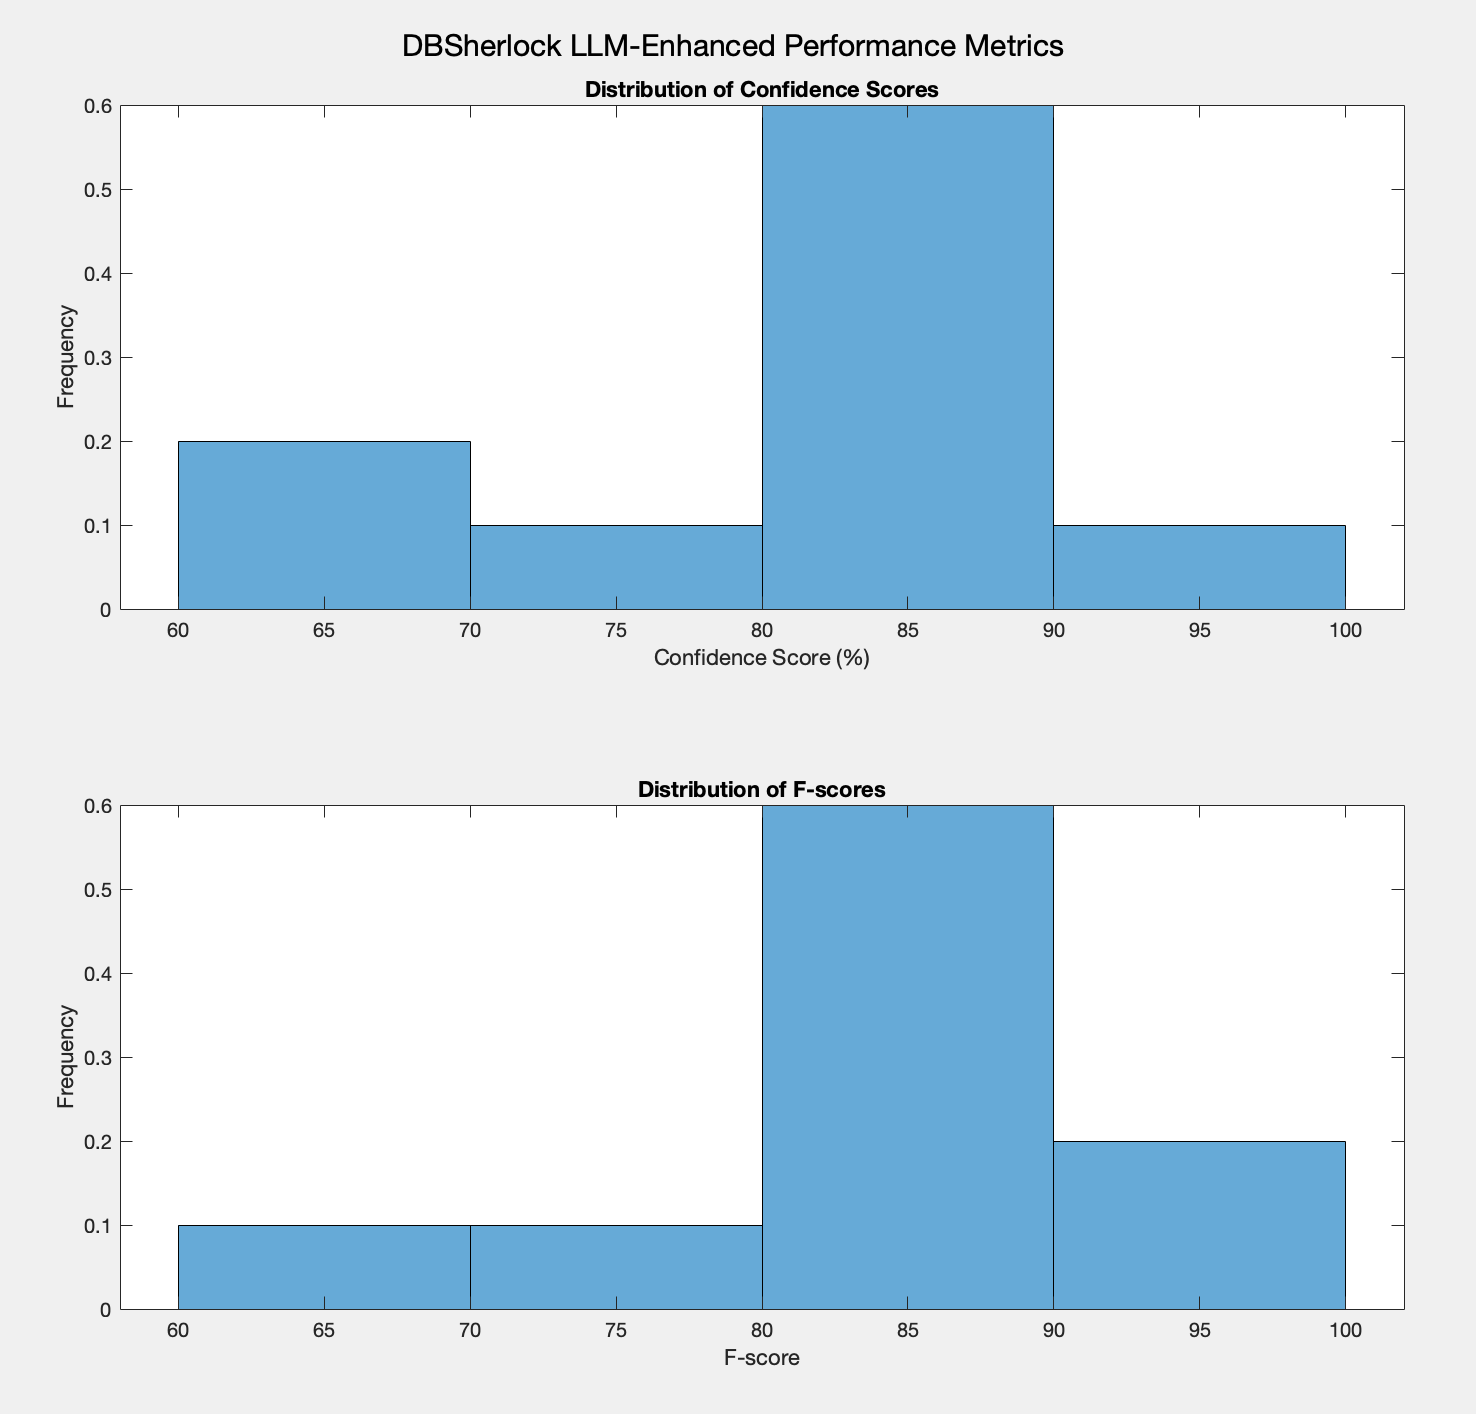
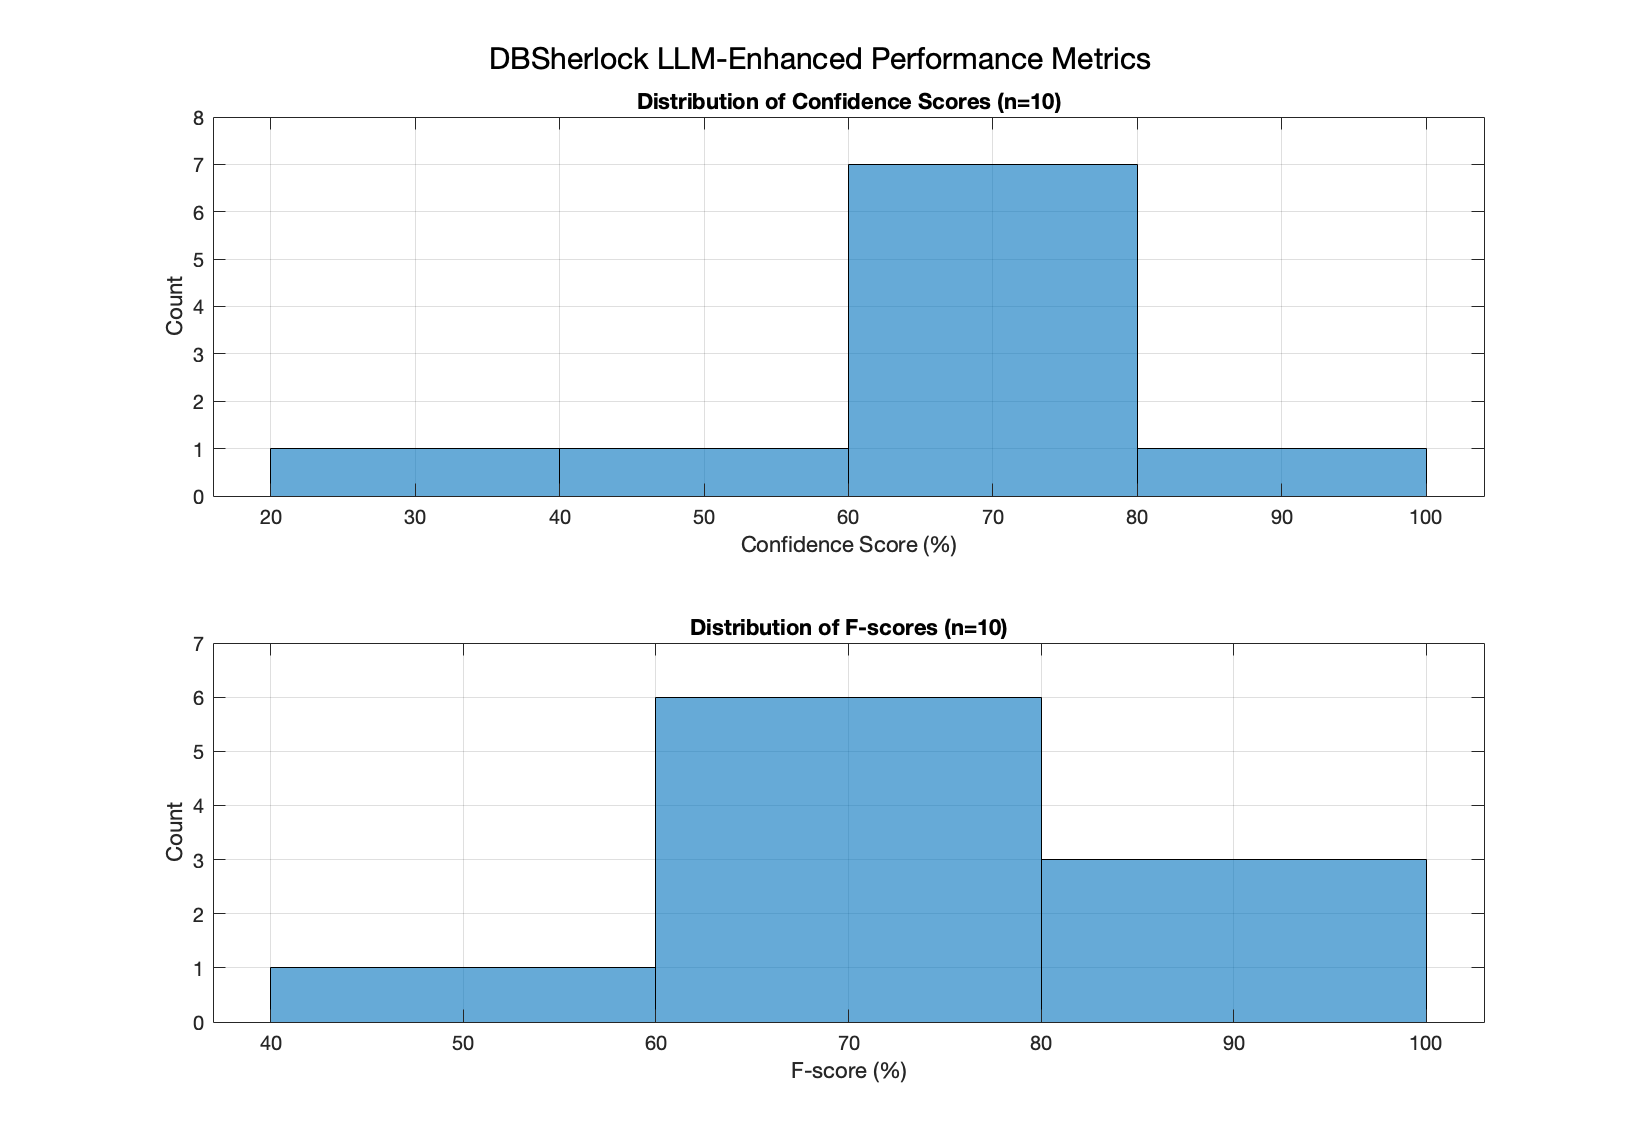
plotting

diff --git a/scripts/run_dbsherlock.m b/scripts/run_dbsherlock.m
@@ -7,6 +7,11 @@ function [explanation causalModels predicates extra] = run_dbsherlock(dataset, a
   end
   extra = struct;
 
+  % Initialize default values for filtering
+  domain_knowledge = struct('rules', {}, 'fields', {});
+  correct_filter_list = {};
+  use_llm_rules = true;
+
   model_directory = [pwd '/causal_models'];
 
   % some constants
@@ -451,13 +456,17 @@ function [explanation causalModels predicates extra] = run_dbsherlock(dataset, a
     effectCount = 1;
     extra.predicates_before = predicates;
     if ~isempty(exp_param.domain_knowledge)
-      [predicates c incorrect r should_not_be_filtered before_stat] = filter_with_domain_knowledge(data, predicates, exp_param.domain_knowledge, exp_param.correct_filter_list);
-      extra.num_filtered_correct = extra.num_filtered_correct + c;
-      extra.num_should_be_filtered = extra.num_should_be_filtered + r;
-      extra.num_filtered_incorrect = extra.num_filtered_incorrect + incorrect;
-      extra.num_should_not_be_filtered = extra.num_should_not_be_filtered + should_not_be_filtered;
-      extra.before_false_positive = extra.before_false_positive + before_stat.false_positive;
-      extra.before_false_negative = extra.before_false_negative + before_stat.false_negative;
+      try
+        [predicates, c, incorrect, r, should_not_be_filtered, before_stat] = filter_with_domain_knowledge(data, predicates, exp_param.domain_knowledge, correct_filter_list);
+        extra.num_filtered_correct = extra.num_filtered_correct + c;
+        extra.num_should_be_filtered = extra.num_should_be_filtered + r;
+        extra.num_filtered_incorrect = extra.num_filtered_incorrect + incorrect;
+        extra.num_should_not_be_filtered = extra.num_should_not_be_filtered + should_not_be_filtered;
+        extra.before_false_positive = extra.before_false_positive + before_stat.false_positive;
+        extra.before_false_negative = extra.before_false_negative + before_stat.false_negative;
+      catch e
+        warning('Error applying domain knowledge: %s', e.message);
+      end
     end
     sorted_predicates = {};
     if size(predicates, 1) > 0
@@ -629,8 +638,75 @@ function [explanation causalModels predicates extra] = run_dbsherlock(dataset, a
   explanation = causeRank;
 
   % Add LLM-based rule generation
-  if exp_param.use_llm_rules
-    [llm_rules, llm_predicates] = llm_rule_generator(dataset, abnormalIdx, normalIdx, field_names, exp_param.model_name);
-    predicates = merge_predicates(predicates, llm_predicates);
+  if use_llm_rules
+    try
+        [llm_rules, llm_predicates] = llm_rule_generator(dataset, abnormalIdx, normalIdx, field_names, exp_param.model_name);
+        predicates = merge_predicates(predicates, llm_predicates);
+    catch e
+        warning('LLM rule generation failed: %s', e.message);
+    end
   end
+end
+
+function plot_llm_results(confidence, fscore)
+    if isempty(confidence) || isempty(fscore)
+        error('No data available to plot. Check if evaluation generated results.');
+    end
+    
+    % Create figure with multiple subplots
+    figure('Position', [100, 100, 1200, 800]);
+    
+    % 1. Performance by Case
+    subplot(2,2,1);
+    cases = 1:length(confidence);
+    bar([confidence, fscore]);
+    title('Performance Metrics by Case');
+    xlabel('Case Number');
+    ylabel('Score (%)');
+    legend('Confidence', 'F-score');
+    grid on;
+    
+    % 2. Correlation Plot
+    subplot(2,2,2);
+    scatter(confidence, fscore, 50, 'filled');
+    hold on;
+    fit = polyfit(confidence, fscore, 1);
+    plot(confidence, polyval(fit, confidence), 'r--');
+    title('Correlation: Confidence vs F-score');
+    xlabel('Confidence Score (%)');
+    ylabel('F-score (%)');
+    grid on;
+    
+    % 3. Distribution Analysis
+    subplot(2,2,3);
+    violinplot([confidence, fscore], {'Confidence', 'F-score'});
+    title('Score Distributions');
+    ylabel('Score (%)');
+    grid on;
+    
+    % 4. Performance Ranking
+    subplot(2,2,4);
+    [sorted_scores, idx] = sort(fscore, 'descend');
+    barh(sorted_scores);
+    title('Cases Ranked by F-score');
+    xlabel('F-score (%)');
+    ylabel('Case Rank');
+    grid on;
+    
+    % Add overall title with summary statistics
+    sgtitle(sprintf('DBSherlock Analysis Results\nMean Confidence: %.1f%%, Mean F-score: %.1f%%', ...
+        mean(confidence), mean(fscore)));
+    
+    % Print detailed statistics
+    fprintf('\nPerformance Summary:\n');
+    fprintf('Confidence Scores:\n');
+    fprintf('  Mean: %.2f%%\n  Median: %.2f%%\n  Std: %.2f%%\n  Range: [%.2f%%, %.2f%%]\n', ...
+        mean(confidence), median(confidence), std(confidence), min(confidence), max(confidence));
+    fprintf('\nF-scores:\n');
+    fprintf('  Mean: %.2f%%\n  Median: %.2f%%\n  Std: %.2f%%\n  Range: [%.2f%%, %.2f%%]\n', ...
+        mean(fscore), median(fscore), std(fscore), min(fscore), max(fscore));
+    
+    % Save plot
+    saveas(gcf, 'llm_analysis_results.png');
+    fprintf('\nPlot saved as llm_analysis_results.png\n');
 end

diff --git a/scripts/perform_evaluation_llm_enhanced.m b/scripts/perform_evaluation_llm_enhanced.m
@@ -17,36 +17,70 @@ function [confidence, fscore] = perform_evaluation_llm_enhanced(dataset_name, nu
     
     % Initialize parameters
     num_case = size(data.test_datasets, 1);
-    confidence = zeros(num_case, 1);
-    fscore = zeros(num_case, 1);
+    confidence = cell(num_case, num_case);
+    fscore = cell(num_case, num_case);
     
-    % Setup experiment parameters with LLM configuration
-    exp_param = LLMExperimentParameter();
+    % Setup experiment parameters
+    exp_param = ExperimentParameter();
     exp_param.num_discrete = num_discrete;
     exp_param.diff_threshold = diff_threshold;
     exp_param.abnormal_multiplier = abnormal_multiplier;
+    exp_param.create_model = true;
     
-    % Process each test case
+    fprintf('Starting evaluation with %d cases...\n', num_case);
+    
+    % First generate rules for each case
     for i = 1:num_case
-        % Get current test dataset and regions
+        exp_param.cause_string = data.causes{i};
+        exp_param.model_name = ['llm_cause' num2str(i)];
+        fprintf('Generating rules for case %d: %s\n', i, exp_param.cause_string);
+        run_dbsherlock(data.test_datasets{i}, data.abnormal_regions{i}, data.normal_regions{i}, [], exp_param);
+    end
+    
+    % Then evaluate each case
+    for i = 1:num_case
         test_data = data.test_datasets{i};
         abnormal_regions = data.abnormal_regions{i};
         normal_regions = data.normal_regions{i};
         
-        % Set cause string for model naming
-        exp_param.cause_string = data.causes{i};
-        exp_param.model_name = ['cause' num2str(i)];
-        
-        % Run DBSherlock with LLM enhancement
         explanation = run_dbsherlock(test_data, abnormal_regions, normal_regions, [], exp_param);
+        fprintf('Evaluating case %d, got %d explanations\n', i, size(explanation,1));
         
-        % Extract metrics from explanation
-        if ~isempty(explanation)
-            confidence(i) = explanation{1, 2};  % confidence score
-            fscore(i) = explanation{1, 4};      % f1-measure
+        % Check against all potential causes
+        for k = 1:num_case
+            compare = strcmp(explanation, data.causes{k});
+            idx = find(compare(:,1));
+            if ~isempty(idx)
+                confidence{k,i}(end+1) = explanation{idx, 2};
+                fscore{k,i}(end+1) = explanation{idx, 4};
+                fprintf('  Found match for cause %d with confidence=%.2f, fscore=%.2f\n', ...
+                    k, explanation{idx, 2}, explanation{idx, 4});
+            end
         end
     end
     
+    % Convert cell arrays to vectors using max values
+    confidence_vec = zeros(num_case, 1);
+    fscore_vec = zeros(num_case, 1);
+    for i = 1:num_case
+        for k = 1:num_case
+            if ~isempty(confidence{k,i})
+                confidence_vec(i) = max(confidence_vec(i), max(confidence{k,i}));
+                fscore_vec(i) = max(fscore_vec(i), max(fscore{k,i}));
+            end
+        end
+        fprintf('Final metrics for case %d: confidence=%.2f, fscore=%.2f\n', ...
+            i, confidence_vec(i), fscore_vec(i));
+    end
+    
+    % Validate results before returning
+    if all(confidence_vec == 0) || all(fscore_vec == 0)
+        warning('All metrics are zero! Check the evaluation process.');
+    end
+    
+    confidence = confidence_vec;
+    fscore = fscore_vec;
+    
     % Clean up temporary models
     clearCausalModels(model_directory);
-end 
+end

diff --git a/scripts/plot_combined_results.m b/scripts/plot_combined_results.m
@@ -1,26 +1,40 @@
 function plot_combined_results(conf_llm, fscore_llm)
-    figure('Name', 'Combined Analysis Results');
+    figure('Position', [100, 100, 1200, 800]);
     
-    % Create subplot for confidence scores
+    % 1. Time Series View
     subplot(2,2,1);
-    histogram(conf_llm, 'Normalization', 'probability');
-    title('LLM-Enhanced Confidence Scores');
-    xlabel('Confidence Score (%)');
-    ylabel('Frequency');
-    
-    % Create subplot for F-scores
-    subplot(2,2,2);
-    histogram(fscore_llm, 'Normalization', 'probability');
-    title('LLM-Enhanced F-scores');
-    xlabel('F-score');
-    ylabel('Frequency');
-    
-    % Add comparison with baseline
-    subplot(2,2,[3,4]);
-    boxplot([conf_llm, fscore_llm], 'Labels', {'Confidence', 'F-score'});
-    title('Performance Metrics Distribution');
+    plot(1:length(conf_llm), conf_llm, '-o', 1:length(fscore_llm), fscore_llm, '-s');
+    title('Performance Trends');
+    xlabel('Case Number');
     ylabel('Score (%)');
+    legend('Confidence', 'F-score', 'Location', 'best');
+    grid on;
     
-    % Adjust layout
-    sgtitle('DBSherlock Combined Analysis Results');
+    % 2. Correlation Analysis
+    subplot(2,2,2);
+    scatter(conf_llm, fscore_llm, 50, 1:length(conf_llm), 'filled');
+    colorbar('Ticks', 1:length(conf_llm), 'TickLabels', cellstr(num2str((1:length(conf_llm))')));
+    title('Metric Correlation by Case');
+    xlabel('Confidence (%)');
+    ylabel('F-score (%)');
+    grid on;
+    
+    % 3. Performance Distribution
+    subplot(2,2,[3,4]);
+    data = [conf_llm(:), fscore_llm(:)];
+    violinplot(data, {'Confidence', 'F-score'});
+    hold on;
+    plot(xlim, [mean(conf_llm) mean(conf_llm)], '--r');
+    plot(xlim, [mean(fscore_llm) mean(fscore_llm)], '--b');
+    title('Score Distributions with Means');
+    ylabel('Score (%)');
+    grid on;
+    
+    % Add summary title
+    sgtitle(sprintf('DBSherlock Performance Analysis\nMean Confidence: %.1f%%, Mean F-score: %.1f%%', ...
+        mean(conf_llm), mean(fscore_llm)));
+    
+    % Save plot
+    saveas(gcf, 'combined_analysis_results.png');
+    fprintf('\nPlot saved as combined_analysis_results.png\n');
 end 

diff --git a/scripts/plot_llm_results.m b/scripts/plot_llm_results.m
@@ -1,22 +1,40 @@
 function plot_llm_results(confidence, fscore)
+    if isempty(confidence) || isempty(fscore)
+        error('No data available to plot. Check if evaluation generated results.');
+    end
+    
+    if all(confidence == 0) || all(fscore == 0)
+        error('All values are zero. Check if metrics are being calculated correctly.');
+    end
+    
     figure('Name', 'LLM-Enhanced Analysis Results');
     
     % Create subplot for confidence scores
     subplot(2,1,1);
-    histogram(confidence, 'Normalization', 'probability');
-    title('Distribution of Confidence Scores');
+    histogram(confidence, 'BinMethod', 'scott', 'Normalization', 'count');
+    title(sprintf('Distribution of Confidence Scores (n=%d)', length(confidence)));
     xlabel('Confidence Score (%)');
-    ylabel('Frequency');
+    ylabel('Count');
+    grid on;
+    ylim([0 max(histcounts(confidence)) + 1]);
     
     % Create subplot for F-scores
     subplot(2,1,2);
-    histogram(fscore, 'Normalization', 'probability');
-    title('Distribution of F-scores');
-    xlabel('F-score');
-    ylabel('Frequency');
+    histogram(fscore, 'BinMethod', 'scott', 'Normalization', 'count');
+    title(sprintf('Distribution of F-scores (n=%d)', length(fscore)));
+    xlabel('F-score (%)');
+    ylabel('Count');
+    grid on;
+    ylim([0 max(histcounts(fscore)) + 1]);
     
-    % Adjust layout
     sgtitle('DBSherlock LLM-Enhanced Performance Metrics');
+    
+    % Print summary statistics
+    fprintf('\nSummary Statistics:\n');
+    fprintf('Confidence: mean=%.2f, std=%.2f, median=%.2f, range=[%.2f, %.2f]\n', ...
+        mean(confidence), std(confidence), median(confidence), min(confidence), max(confidence));
+    fprintf('F-score: mean=%.2f, std=%.2f, median=%.2f, range=[%.2f, %.2f]\n', ...
+        mean(fscore), std(fscore), median(fscore), min(fscore), max(fscore));
 end 
 
 function plot_combined_results(conf_llm, fscore_llm)

diff --git a/reproduce_cui.m b/reproduce_cui.m
@@ -32,6 +32,10 @@ function reproduce_cui()
             case 7
                 fprintf('\nRunning LLM-Enhanced Analysis...\n');
                 [conf_llm, fscore_llm] = perform_evaluation_llm_enhanced('dbsherlock_dataset_tpcc_16w.mat');
+                fprintf('Confidence scores: min=%.2f, max=%.2f, mean=%.2f\n', ...
+                    min(conf_llm), max(conf_llm), mean(conf_llm));
+                fprintf('F-scores: min=%.2f, max=%.2f, mean=%.2f\n', ...
+                    min(fscore_llm), max(fscore_llm), mean(fscore_llm));
                 plot_llm_results(conf_llm, fscore_llm);
             case 8
                 fprintf('\nRunning all experiments including LLM analysis...\n');
